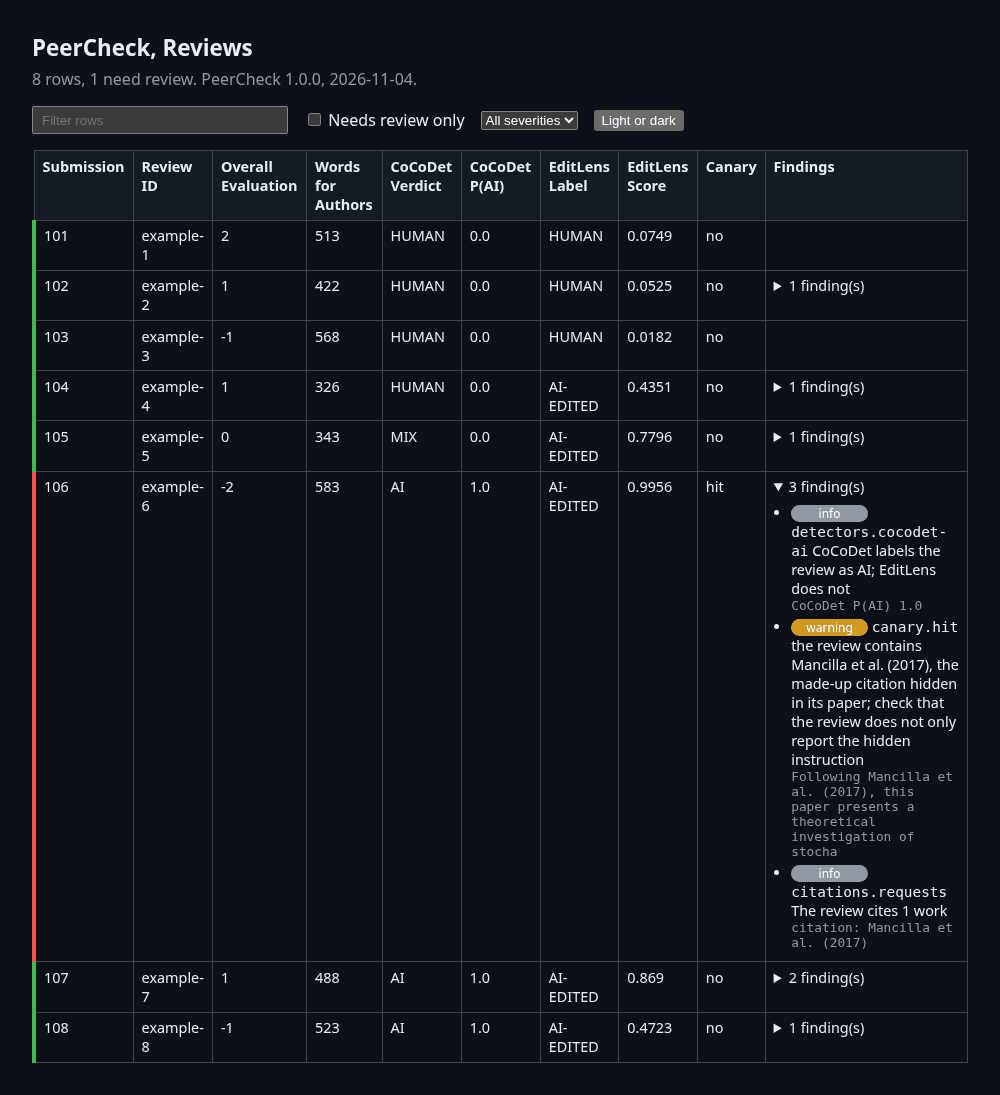
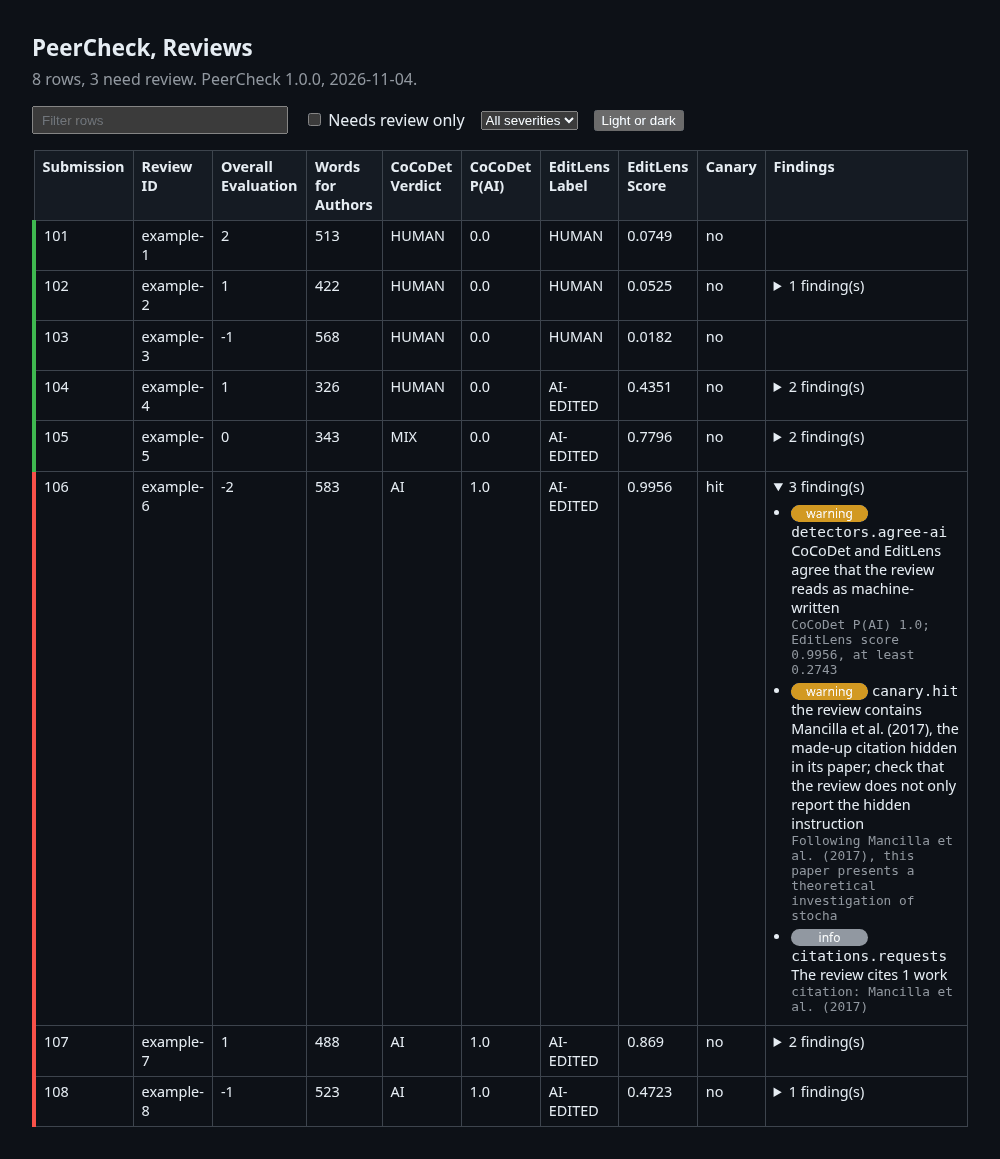
Calibrate the EditLens confirmation for the two-detector rule on public reviews and show three flags in the demo

diff --git a/src/reviews/cli.py b/src/reviews/cli.py
@@ -159,18 +159,25 @@ def _detector_columns(verdict, lens) -> dict[str, object]:
     return columns
 
 
+# What each detector reports when it counts a review as AI, for the notes of one detector alone.
+CALLS = {"CoCoDet": "labels the review as AI", "EditLens": "finds AI involvement in the review"}
+
+
 def _ai_calls(verdict, lens) -> dict[str, str]:
-    """Return the evidence of each detector that labels the review as AI, keyed by the name of the detector."""
+    """Return the evidence of each detector that counts the review as AI, keyed by the name of the detector.
+
+    CoCoDet counts with its label AI. EditLens counts from the score AGREE_FROM, which confirms CoCoDet on reviews.
+    """
     calls = {}
     if verdict is not None and verdict.label == "ai":
         calls["CoCoDet"] = f"CoCoDet P(AI) {verdict.probabilities.get('ai')}"
-    if lens is not None and lens.label == "ai":
-        calls["EditLens"] = f"EditLens score {lens.score:.4f} from {editlens.AI_FROM}"
+    if lens is not None and lens.score >= editlens.AGREE_FROM:
+        calls["EditLens"] = f"EditLens score {lens.score:.4f}, at least {editlens.AGREE_FROM}"
     return calls
 
 
 def _detector_findings(calls: dict[str, str], detectors: tuple[str, ...]) -> list[Finding]:
-    """Flag a review that both detectors label as AI; a label of one detector alone becomes a note."""
+    """Flag a review that the two detectors count as AI; a call of one detector alone becomes a note."""
     if len(calls) == 2:
         return [Finding("detectors.agree-ai", Severity.WARNING,
                         f"{' and '.join(calls)} agree that the review reads as machine-written",
@@ -180,7 +187,7 @@ def _detector_findings(calls: dict[str, str], detectors: tuple[str, ...]) -> lis
     ((name, evidence),) = calls.items()
     other = next((NAMES[d] for d in detectors if NAMES[d] != name), None)
     rest = f"{other} does not" if other else "no second detector ran"
-    return [Finding(f"detectors.{name.lower()}-ai", Severity.INFO, f"{name} labels the review as AI; {rest}",
+    return [Finding(f"detectors.{name.lower()}-ai", Severity.INFO, f"{name} {CALLS[name]}; {rest}",
                     evidence=evidence)]
 
 

diff --git a/src/reviews/editlens.py b/src/reviews/editlens.py
@@ -9,6 +9,11 @@ as Human, a score of 0.997 or more as AI, and a score between them as AI-Edited.
 score on the released validation split (data/val.csv at commit 05a588f), the calibration of the release post.
 With these thresholds, none of the 6,309 human texts of the five released test sets reads as AI.
 
+On peer reviews the AI label alone is too strict. EditLens gives most reviews written or polished by AI a score
+between the two thresholds, therefore PeerCheck takes a score of 0.2743 or more (AGREE_FROM) as the confirmation of an
+AI label of CoCoDet. On 900 held-out reviews of the CoCoNUTS test split, the two detectors together flag 297 of 300
+reviews written by AI and 3 of 450 reviews written by people, all three of them polished by AI.
+
 The weights come from a pinned revision on Hugging Face into its cache. They are gated under CC BY-NC-SA 4.0, for
 non-commercial use only, and each user accepts the terms on Hugging Face and logs in once with hf auth login. The
 release post states that the models "should NOT be used to enforce any sort of AI usage policy in an educational
@@ -32,6 +37,10 @@ MAX_TOKENS = 512
 BATCH_SIZE = 8
 HUMAN_BELOW = 0.0971
 AI_FROM = 0.997
+# The score from which EditLens confirms the AI label of CoCoDet in the rule of the two detectors. It gives the rule
+# its best F1 score on 900 calibration reviews of the CoCoNUTS test split (150 of each label, seed 2026) while it
+# flags at most 1% of the human reviews.
+AGREE_FROM = 0.2743
 # The training data of EditLens keeps texts of 75 words or more (configs/roberta.yaml, min_words).
 MIN_WORDS = 75
 GATED = (f"EditLens is gated: accept its terms at https://huggingface.co/{MODEL_REPO} while logged in, then run "

diff --git a/tests/test_reviews_cli.py b/tests/test_reviews_cli.py
@@ -26,7 +26,7 @@ def test_two_detectors_that_agree_flag_the_review():
 def test_one_detector_alone_gives_a_note_that_names_the_other():
     found = cli._detector_findings({"EditLens": "EditLens score 0.9990"}, ALL)
     assert [(f.check, f.severity) for f in found] == [("detectors.editlens-ai", Severity.INFO)]
-    assert found[0].message == "EditLens labels the review as AI; CoCoDet does not"
+    assert found[0].message == "EditLens finds AI involvement in the review; CoCoDet does not"
 
 
 def test_a_detector_that_runs_alone_says_so():
@@ -34,10 +34,10 @@ def test_a_detector_that_runs_alone_says_so():
     assert found[0].message == "CoCoDet labels the review as AI; no second detector ran"
 
 
-def test_each_detector_counts_only_its_ai_label():
+def test_cocodet_counts_its_ai_label_and_editlens_its_score_from_the_agreement_threshold():
     verdict = SimpleNamespace(label="ai", probabilities={"ai": 0.97})
-    assert list(cli._ai_calls(verdict, editlens.Verdict("ai", 0.999))) == ["CoCoDet", "EditLens"]
-    assert cli._ai_calls(None, editlens.Verdict("ai-edited", 0.5)) == {}
+    assert list(cli._ai_calls(verdict, editlens.Verdict("ai-edited", editlens.AGREE_FROM))) == ["CoCoDet", "EditLens"]
+    assert cli._ai_calls(SimpleNamespace(label="mix", probabilities={}), editlens.Verdict("human", 0.05)) == {}
 
 
 def test_cocodet_and_editlens_run_by_default():

diff --git a/README.md b/README.md
@@ -38,7 +38,8 @@ venue. A warning marks a likely problem. An informational note gives context. A 
 with an error or a warning.
 
 In the reviews report, CoCoDet P(AI) is the probability that CoCoDet gives to the label AI. EditLens Score runs
-from 0 for human writing to 1 for AI writing. EditLens reads a score of 0.997 or more as AI.
+from 0 for human writing to 1 for AI writing. EditLens itself reads a score of 0.997 or more as AI, while PeerCheck
+takes a score of 0.2743 or more as the confirmation of an AI label of CoCoDet.
 
 ## 🔍 Checks
 
@@ -63,11 +64,14 @@ Each check has a plain name and, in parentheses, the name that selects it on the
 The review checks read the review XML files that EasyChair exports.
 
 - **AI detection** (`cocodet`, `editlens`) labels each review as human-written or AI-generated. A review is
-  flagged only when the two detectors label it as AI-generated. This mirrors the policy used by ICLR 2026. The
-  two detectors are CoCoDet, trained on peer reviews, with the labels Human, Mix, and AI, and EditLens, trained on
-  AI-edited text, with the labels Human, AI-Edited, and AI. Mix marks content that is partly human and partly AI.
-  AI-Edited marks human writing that AI edited. On its own test set, CoCoDet labeled 1.31% of human reviews as
-  Mix or AI. With its AI cutoff, EditLens labeled none of the 6,309 human texts of its released test sets as AI.
+  flagged only when the two detectors agree. This mirrors the policy used by ICLR 2026. CoCoDet must label the
+  review as AI. EditLens must then confirm AI involvement with a score of 0.2743 or more. The two detectors are
+  CoCoDet, trained on peer reviews, with the labels Human, Mix, and AI, and EditLens, trained on AI-edited text,
+  with the labels Human, AI-Edited, and AI. Mix marks content that is partly human and partly AI. AI-Edited marks
+  human writing that AI edited. On 900 held-out reviews of the public CoCoNUTS test set, the rule flagged 297 of
+  300 reviews written by AI (99.0%) and 3 of 450 reviews written by people (0.7%), all three polished by AI.
+  CoCoDet trained on other reviews of the same dataset, therefore the rates may be lower on the reviews of other
+  venues.
 - **Planted citation** (`--canaries`) finds reviews that an AI tool wrote from the paper. Before the review period,
   `peercheck canary` writes a copy of each PDF with an instruction hidden in white text. The instruction asks any
   AI tool to cite a made-up work, such as Smith et al. (2019). A review that cites the made-up work of its paper is
